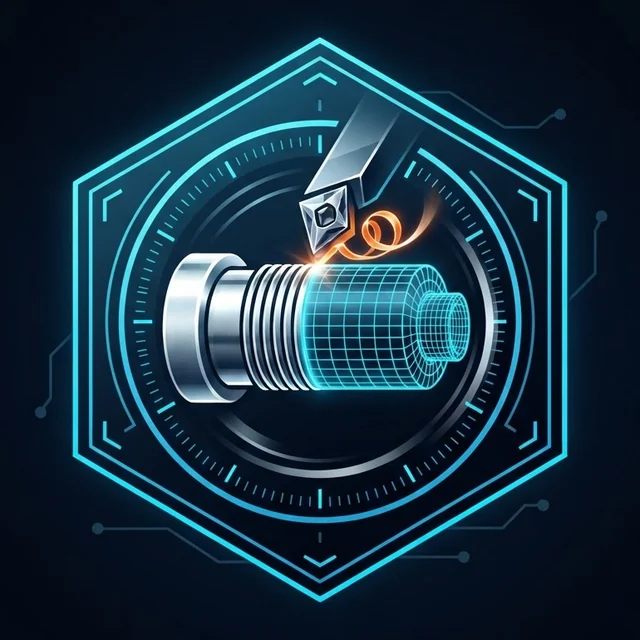
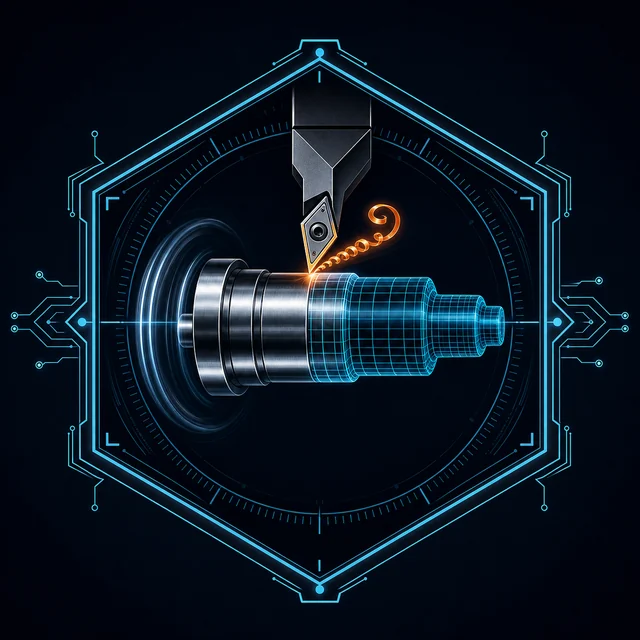
feat: nuove immagini di tornitura e cavi, stesso stile delle altre due
Sostituite le due immagini con le versioni piu' uniformi (stesso tratto e stessa inquadratura), ritagliate sull'esagono e salvate 640x640 WebP. Versione file v=34.

diff --git a/index.html b/index.html
@@ -30,8 +30,8 @@
 <link rel="preload" as="fetch" href="img/hero-pezzo.bin" crossorigin>
 <link rel="modulepreload" href="js/vendor/three.module.min.js">
 <link rel="modulepreload" href="js/vendor/RoomEnvironment.js">
-<link rel="modulepreload" href="js/hero3d.js?v=33">
-<link rel="stylesheet" href="css/style.css?v=33">
+<link rel="modulepreload" href="js/hero3d.js?v=34">
+<link rel="stylesheet" href="css/style.css?v=34">
 </head>
 <body>
 
@@ -153,12 +153,12 @@
   </div>
 </footer>
 
-<script src="js/schedario.js?v=33"></script>
-<script src="js/prezzi.js?v=33"></script>
-<script src="js/testi.js?v=33"></script>
-<script src="js/i18n.js?v=33"></script>
-<script src="js/file.js?v=33"></script>
-<script src="js/app.js?v=33"></script>
-<script type="module" src="js/hero3d.js?v=33"></script>
+<script src="js/schedario.js?v=34"></script>
+<script src="js/prezzi.js?v=34"></script>
+<script src="js/testi.js?v=34"></script>
+<script src="js/i18n.js?v=34"></script>
+<script src="js/file.js?v=34"></script>
+<script src="js/app.js?v=34"></script>
+<script type="module" src="js/hero3d.js?v=34"></script>
 </body>
 </html>
